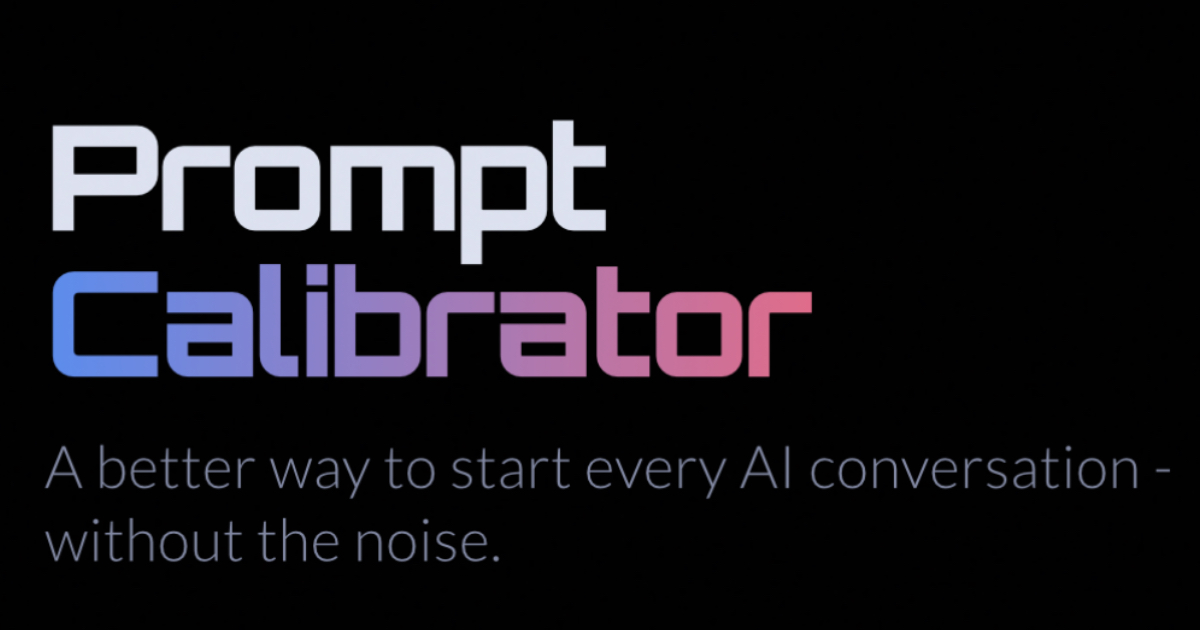
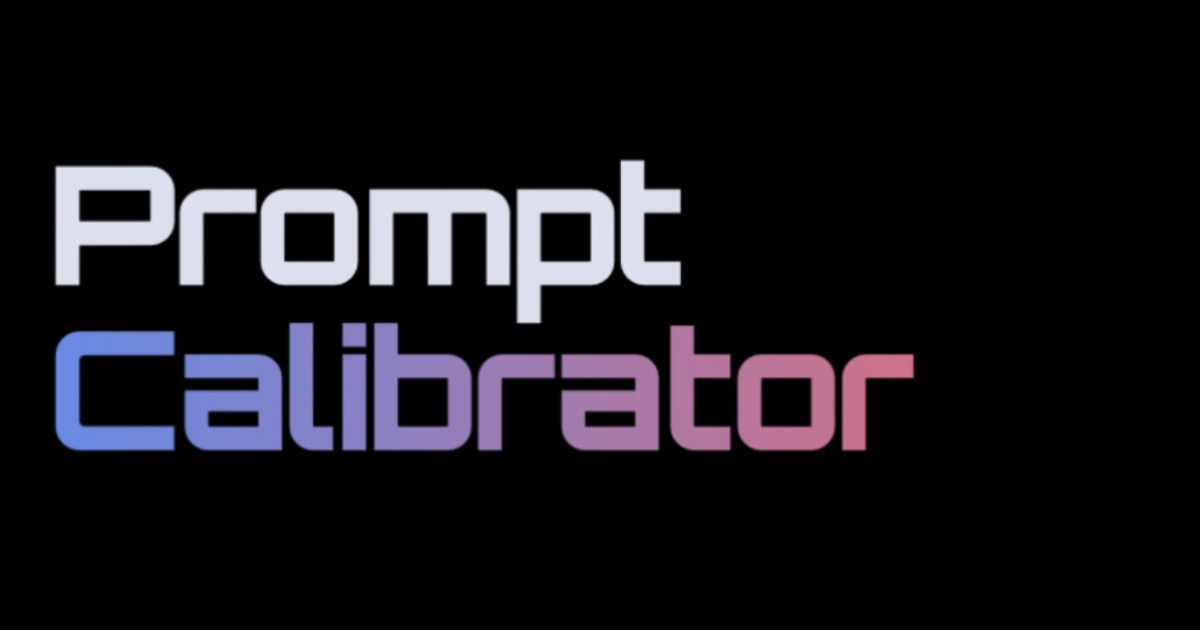
update UI

Changed region(s): [[0.0308, 0.181, 0.9558, 0.7841], [0.0308, 0.8143, 0.4008, 0.9048]]

diff --git a/index.html b/index.html
@@ -97,8 +97,8 @@
   header {
     grid-column: 1 / -1;
     padding: 48px 0 28px;
-    border-bottom: 1px solid var(--border);
-    margin-bottom: 32px;
+    /* border-bottom: 1px solid var(--border); */
+    margin-bottom: 0px;
     display: flex;
     align-items: flex-end;
     justify-content: space-between;
@@ -123,7 +123,7 @@
 
   .tagline {
     font-family: 'Lato', sans-serif;
-    font-weight: 300;
+    font-weight: 400;
     font-size: 17px;
     color: var(--muted2);
     margin-top: 10px;
@@ -148,13 +148,13 @@
   /* ── THEME SWITCHER ── */
   .theme-switcher-wrap {
     grid-column: 1 / -1;
-    margin-bottom: 44px;
+    margin-bottom: 5px;
     display: flex;
     flex-direction: column;
     align-items: center;
     gap: 12px;
     padding: 8px 0 25px;
-    border-bottom: 1px solid var(--border);
+    /* border-bottom: 1px solid var(--border); */
   }
 
   .theme-switcher-label {
@@ -540,11 +540,40 @@
   }
   .see-example-link:hover { color: var(--muted2); }
 
-  /* ── "WHAT IS THIS" BUTTON — above output card ── */
-  .whatis-btn {
+  /* ── TOP NAV BAR — info & utility buttons ── */
+  .top-nav-wrap {
+    grid-column: 1 / -1;
+    margin-bottom: 0;
+    display: flex;
+    flex-direction: column;
+    align-items: center;
+    gap: 12px;
+    padding: 0 0 20px;
+    border-bottom: 1px solid var(--border);
+    margin-bottom: 28px;
+  }
+
+  .top-nav-label {
+    font-family: 'DM Mono', monospace;
+    font-size: 12.5px;
+    letter-spacing: 0.18em;
+    text-transform: uppercase;
+    color: var(--muted);
+    text-align: center;
+  }
+
+  .top-nav-buttons {
+    display: flex;
+    gap: 8px;
+    flex-wrap: wrap;
+    justify-content: center;
+    width: 100%;
+  }
+
+  .top-nav-btn {
     font-family: 'DM Mono', monospace;
     font-size: 13.5px;
-    padding: 9px 18px;
+    padding: 9px 0;
     border-radius: 30px;
     border: 1px solid var(--border-hover);
     background: var(--surface2);
@@ -554,24 +583,18 @@
     letter-spacing: 0.05em;
     display: flex;
     align-items: center;
-    gap: 8px;
-    width: 100%;
     justify-content: center;
-    margin-bottom: 12px;
+    gap: 8px;
+    flex: 1;
+    min-width: 160px;
+    max-width: 260px;
     user-select: none;
   }
-  .whatis-btn:hover {
+
+  .top-nav-btn:hover {
     background: #5b8dee18;
     border-color: var(--c1);
     color: var(--c1);
-  }
-  .whatis-btn-dot {
-    width: 6px;
-    height: 6px;
-    border-radius: 50%;
-    background: var(--c1);
-    opacity: 0.8;
-    flex-shrink: 0;
   }
 
   /* ── "GIVE FEEDBACK" BUTTON — below output card ── */
@@ -873,14 +896,34 @@
   <header>
     <div>
       <h1>Prompt <em>Calibrator</em></h1>
-      <p class="tagline">A better way to start every AI conversation - without the noise.</p>
+      <p class="tagline">Think first. Prompt better.</p>
     </div>
     <div class="byline">
-      <span>v0.4.1</span>
+      <span>v0.4.2 </span>
       <span>by Adrian Wang</span>
-      <button onclick="openModal('modal-privacy')" style="font-family:'DM Mono',monospace;font-size:13.5px;color:var(--muted);letter-spacing:0.08em;background:none;border:none;cursor:pointer;padding:0;transition:color 0.2s;" onmouseover="this.style.color='var(--muted2)'" onmouseout="this.style.color='var(--muted)'">🔒 Data &amp; Privacy</button>
+      <!-- Think first. Prompt better. -->
     </div>
   </header>
+
+  <!-- HERO TAGLINE SECTION -->
+
+  <!-- <div style="grid-column: 1 / -1; text-align: center; padding: 12px 0 32px;">
+    <span style="font-family:'Orbitron',sans-serif; font-size:18px; font-weight:700; color:var(--text); letter-spacing:-0.3px;">Think first. Prompt better.</span>
+    <span style="font-family:'Lato',sans-serif; font-weight:500; font-size:15px; color:var(--muted2); letter-spacing:0.01em; margin-left:12px;">Structure your AI prompts with a simple framework — private, fast, and noise-free.</span>
+  </div> -->
+
+<!-- TOP NAV BAR -->
+<div style="grid-column: 1 / -1; text-align: center; padding: 0 0 20px; border-bottom: 1px solid var(--border); margin-bottom: 28px;">
+  <div style="display: flex; justify-content: center; align-items: center; gap: 6px; flex-wrap: wrap;">
+    <button onclick="openModal('modal-privacy')" style="font-family:'DM Mono',monospace; font-size:13px; color:var(--muted); background:none; border:none; cursor:pointer; padding:4px 6px; letter-spacing:0.06em; transition:color 0.2s;" onmouseover="this.style.color='var(--c1)'" onmouseout="this.style.color='var(--muted)'">🔒 Data & Privacy</button>
+    <span style="color:var(--border-hover); font-size:13px;">·</span>
+    <button onclick="openModal('modal-whyhow')" style="font-family:'DM Mono',monospace; font-size:13px; color:var(--muted); background:none; border:none; cursor:pointer; padding:4px 6px; letter-spacing:0.06em; transition:color 0.2s;" onmouseover="this.style.color='var(--c1)'" onmouseout="this.style.color='var(--muted)'">💡 How It Works</button>
+    <span style="color:var(--border-hover); font-size:13px;">·</span>
+    <button onclick="openModal('modal-philosophy')" style="font-family:'DM Mono',monospace; font-size:13px; color:var(--muted); background:none; border:none; cursor:pointer; padding:4px 6px; letter-spacing:0.06em; transition:color 0.2s;" onmouseover="this.style.color='var(--c1)'" onmouseout="this.style.color='var(--muted)'">🧠 The Idea Behind</button>
+    <span style="color:var(--border-hover); font-size:13px;">·</span>
+    <button onclick="openModal('modal-feedback')" style="font-family:'DM Mono',monospace; font-size:13px; color:var(--muted); background:none; border:none; cursor:pointer; padding:4px 6px; letter-spacing:0.06em; transition:color 0.2s;" onmouseover="this.style.color='var(--c1)'" onmouseout="this.style.color='var(--muted)'">💬 Give Feedback</button>
+  </div>
+</div>
 
   <!-- THEME SWITCHER -->
   <div class="theme-switcher-wrap">
@@ -1539,9 +1582,6 @@
        OUTPUT PANEL
   ══════════════════════════════════════ -->
   <div class="output-col">
-    <button class="whatis-btn" onclick="openModal('modal-whyhow')">
-      <span>💡</span> What Is This &amp; How It Works
-    </button>
     <div class="output-card">
       <div class="output-header">
         <div class="output-label">
@@ -1587,9 +1627,6 @@
         <button class="reset-btn" onclick="resetAll()">↺ Reset</button>
       </div>
     </div>
-    <button class="feedback-btn" onclick="openModal('modal-feedback')">
-      <span>💬</span> Give Your Feedback
-    </button>
   </div>
 
 
@@ -2441,6 +2478,72 @@ function activateChip(containerId, val) {
     </div>
   </div>
 </div>
+<!-- PROMPT CALIBRATOR PHILOSOPHY MODAL -->
+<div class="modal-overlay" id="modal-philosophy">
+  <div class="modal">
+    <div class="modal-header">
+      <div>
+        <div class="modal-title">The idea behind Prompt Calibrator</div>
+        <div class="modal-subtitle">What makes this tool different — and why it was built this way.</div>
+      </div>
+      <button class="modal-close" onclick="closeModal('modal-philosophy')">&#x2715;</button>
+    </div>
+    <div class="modal-body">
+      <div class="how-steps">
+        <div class="how-step">
+          <div class="how-step-num" style="background:#5b8dee18;color:var(--c1)">01</div>
+          <div class="how-step-content">
+            <div class="how-step-title">Think before you ask</div>
+            <div class="how-step-desc">
+              Most people open AI and type whatever comes to mind.<br>
+              This tool slows that down — on purpose.<br>
+              A few simple fields help you clarify what you actually want.</div>
+              <!-- Clear thinking in → better answers out.</div> -->
+          </div>
+        </div>
+        <div class="how-step">
+          <div class="how-step-num" style="background:#e06c8a18;color:var(--c2)">02</div>
+          <div class="how-step-content">
+            <div class="how-step-title">Prompts are situational</div>
+            <div class="how-step-desc">
+              A teacher, a consultant, and a student don't need the same prompt.<br>
+              Each mode highlights the fields that matter for that situation — instead of giving everyone a generic template.</div>
+          </div>
+        </div>
+        <div class="how-step">
+          <div class="how-step-num" style="background:#4ecdc418;color:var(--c3)">03</div>
+          <div class="how-step-content">
+            <div class="how-step-title">AI shouldn't write your prompt</div>
+            <div class="how-step-desc">Many tools use AI to generate prompts for you.<br>
+              Prompt Calibrator doesn't.<br>
+              AI should answer your prompt — not write it. Your thinking stays in the loop.</div>
+          </div>
+        </div>
+        <div class="how-step">
+          <div class="how-step-num" style="background:#f7c94818;color:var(--c4)">04</div>
+          <div class="how-step-content">
+            <div class="how-step-title">Private by design</div>
+            <div class="how-step-desc">
+              Everything runs in your browser.<br>
+              No login. No storage. No tracking of what you write.<br>
+              Your ideas and prompts stay on your device.</div>
+          </div>
+        </div>
+        <div class="how-step">
+          <div class="how-step-num" style="background:#a78bfa18;color:var(--c5)">05</div>
+          <div class="how-step-content">
+            <div class="how-step-title">Build prompt literacy</div>
+            <div class="how-step-desc">The goal isn't just one good prompt.<br>
+              <!-- That's the point: learning to  -->
+              <em style="color:var(--text);font-style:italic;">It's learning how to structure your thinking before talking to AI — until it becomes a habit.</em></div>
+              <!-- , not just talk at it.</div> -->
+          </div>
+        </div>
+      </div>
+    </div>
+  </div>
+</div>
+
 <!-- DATA & PRIVACY MODAL -->
 <div class="modal-overlay" id="modal-privacy">
   <div class="modal">
